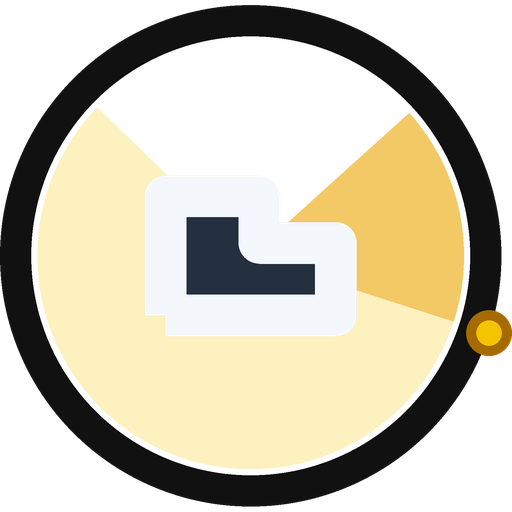
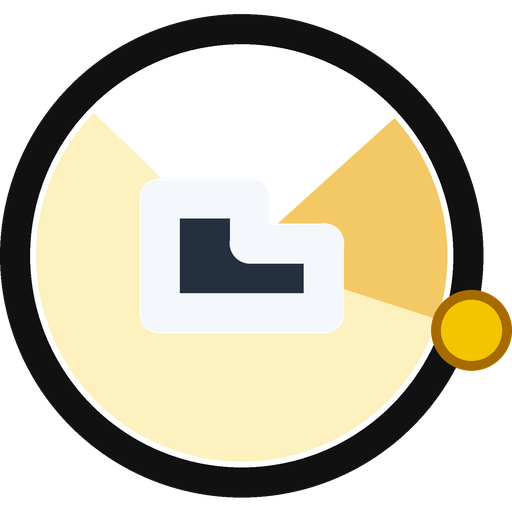
🤖 Close the house corner and enlarge the sun
The outline started and ended on the lower-left corner, so that joint stayed open.

diff --git a/scripts/brand.py b/scripts/brand.py
@@ -94,9 +94,14 @@ def draw_mark(image: Image.Image, centre: float, rim: float, dark: bool) -> None
     fill = (36, 48, 64, 255) if dark else (247, 244, 239, 255)
     edge = (244, 247, 251, 255) if dark else (61, 74, 87, 255)
     draw.polygon(house, fill=fill)
+    # The stroke starts and ends on the lower-left corner. A disc on every
+    # corner closes that joint; the line alone leaves it half open.
     draw.line([*house, house[0]], fill=edge, width=house_width, joint="curve")
+    cap = house_width / 2
+    for x, y in house:
+        draw.ellipse((x - cap, y - cap, x + cap, y + cap), fill=edge)
     sun = _at(NOW, rim, centre)
-    radius = max(4, int(rim / 11))
+    radius = max(6, round(rim / 6))
     draw.ellipse(
         (sun[0] - radius, sun[1] - radius, sun[0] + radius, sun[1] + radius),
         fill=SUN,
@@ -176,6 +181,7 @@ def _svg(dark: bool) -> str:
     centre, rim = 256.0, 184.0
     sun = _at(NOW, rim, centre)
     ring, halo, house_width = _weights(rim)
+    sun_r = max(6, round(rim / 6))
     outer = rim + halo / 2
     points = [
         *_sector(RISE, SET, rim, centre),
@@ -184,10 +190,10 @@ def _svg(dark: bool) -> str:
         (centre + outer, centre),
         (centre, centre - outer),
         (centre, centre + outer),
-        (sun[0] - 24, sun[1]),
-        (sun[0] + 24, sun[1]),
-        (sun[0], sun[1] - 24),
-        (sun[0], sun[1] + 24),
+        (sun[0] - sun_r, sun[1]),
+        (sun[0] + sun_r, sun[1]),
+        (sun[0], sun[1] - sun_r),
+        (sun[0], sun[1] + sun_r),
     ]
     pad = 4.0
     left = min(point[0] for point in points) - pad
@@ -210,7 +216,7 @@ def _svg(dark: bool) -> str:
         f'stroke="#111111" stroke-width="{ring}"/>'
         f'<polygon points="{house}" fill="{fill}" stroke="{edge}" '
         f'stroke-width="{house_width}"/>'
-        f'<circle cx="{sun[0]:.1f}" cy="{sun[1]:.1f}" r="18" fill="#f5c400" '
+        f'<circle cx="{sun[0]:.1f}" cy="{sun[1]:.1f}" r="{sun_r}" fill="#f5c400" '
         f'stroke="#a56b00" stroke-width="6"/></svg>\n'
     )
 
